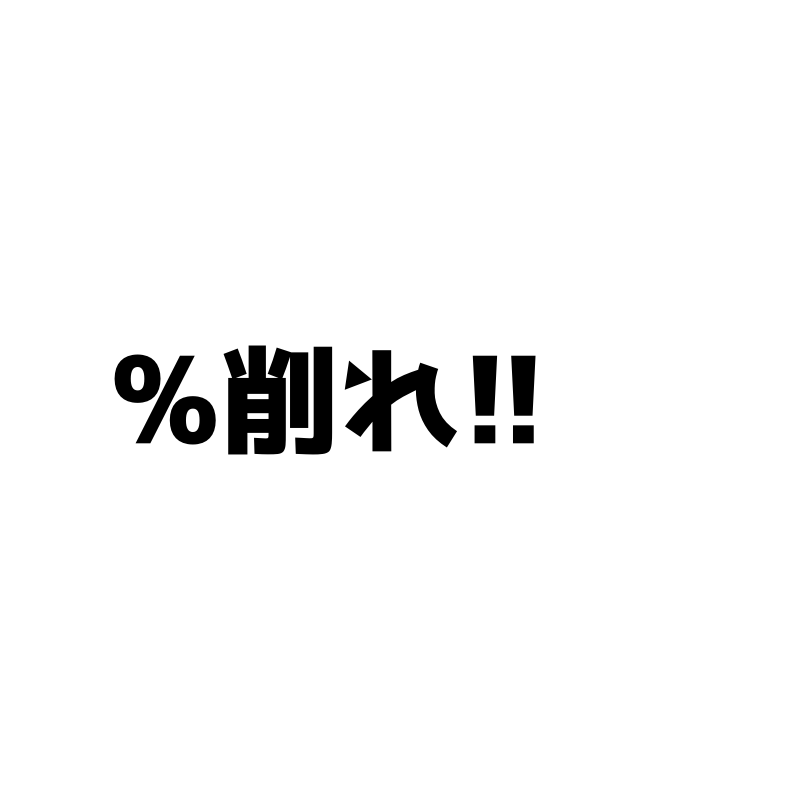
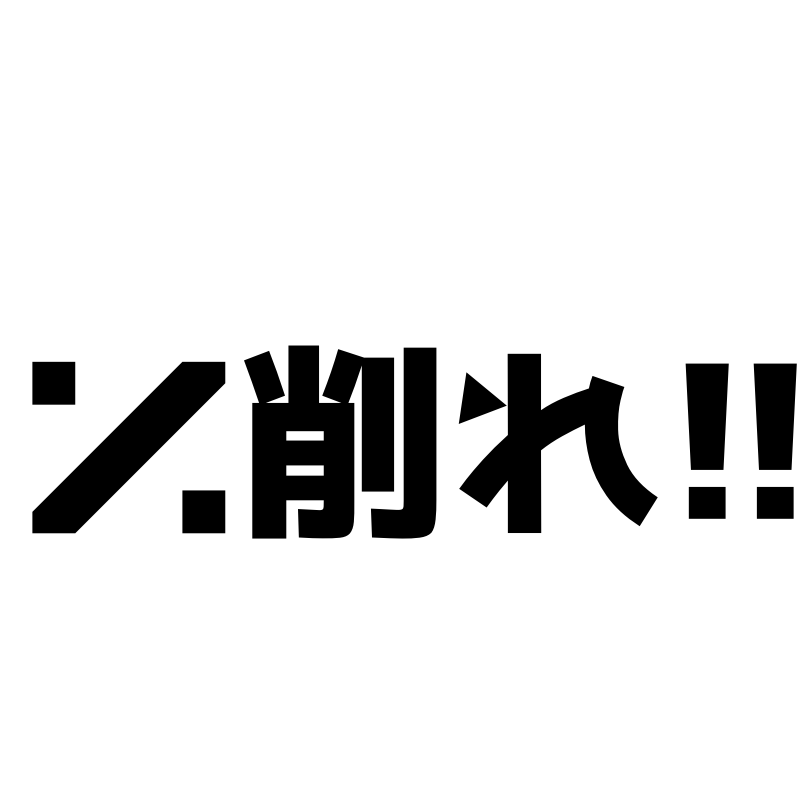
画像のリソース差し替え＆画像の位置調整 (シーンの切り替えGamasceneのとこコメントアウトしてる)

diff --git a/DirectXGame/playScene.cpp b/DirectXGame/playScene.cpp
@@ -22,7 +22,7 @@ void PlayScene::Initialize() {
 	toleranceTexture = TextureManager::Load("+-.png");
 
 	textSprite = Sprite::Create(textTexture, {0, 0}, {1, 1, 1, 1}, {0.5f, 0.5f});
-	textSprite->SetSize({500, 500});
+	textSprite->SetSize({330, 330});
 
 	percentSprite = Sprite::Create(percentTexture, {0, 0}, {1, 1, 1, 1}, {0.5f, 0.5f});
 	percentSprite->SetSize({60, 60});
@@ -153,22 +153,22 @@ void PlayScene::Draw() {
 		smallCircle->Draw();
 
 		// 目標の表示（左上）
-		Vector2 targetPos = {150, 50};
+		Vector2 targetPos = {150, 70};
 		DrawNumber((int)target, targetPos, digitTextures, 0, {90, 90});
 
 		int digits = (int)std::to_string((int)target).size();
-		float textOffsetX = targetPos.x + digits * 70 + 150;
-		textSprite->SetPosition({textOffsetX, targetPos.y});
+		float textOffsetX = targetPos.x + digits * 70 + 50;
+		textSprite->SetPosition({textOffsetX, targetPos.y - 10});
 		textSprite->Draw();
 
 		// 誤差の表示
-		Vector2 tolPos = {targetPos.x, targetPos.y + 150};
+		Vector2 tolPos = {targetPos.x , targetPos.y + 100};
 		toleranceSprite->SetPosition(tolPos);
 		toleranceSprite->Draw();
 
-		DrawNumber((int)tolerance, {tolPos.x + 80, tolPos.y}, digitTextures, 0, {60, 60});
+		DrawNumber((int)tolerance, {tolPos.x + 120, tolPos.y - 0}, digitTextures, 0, {60, 60});
 		percentSprite->SetSize({60, 60});
-		percentSprite->SetPosition({tolPos.x + 80 + 60, tolPos.y});
+		percentSprite->SetPosition({tolPos.x + 80 + 100, tolPos.y + 10});
 		percentSprite->Draw();
 	}
 
